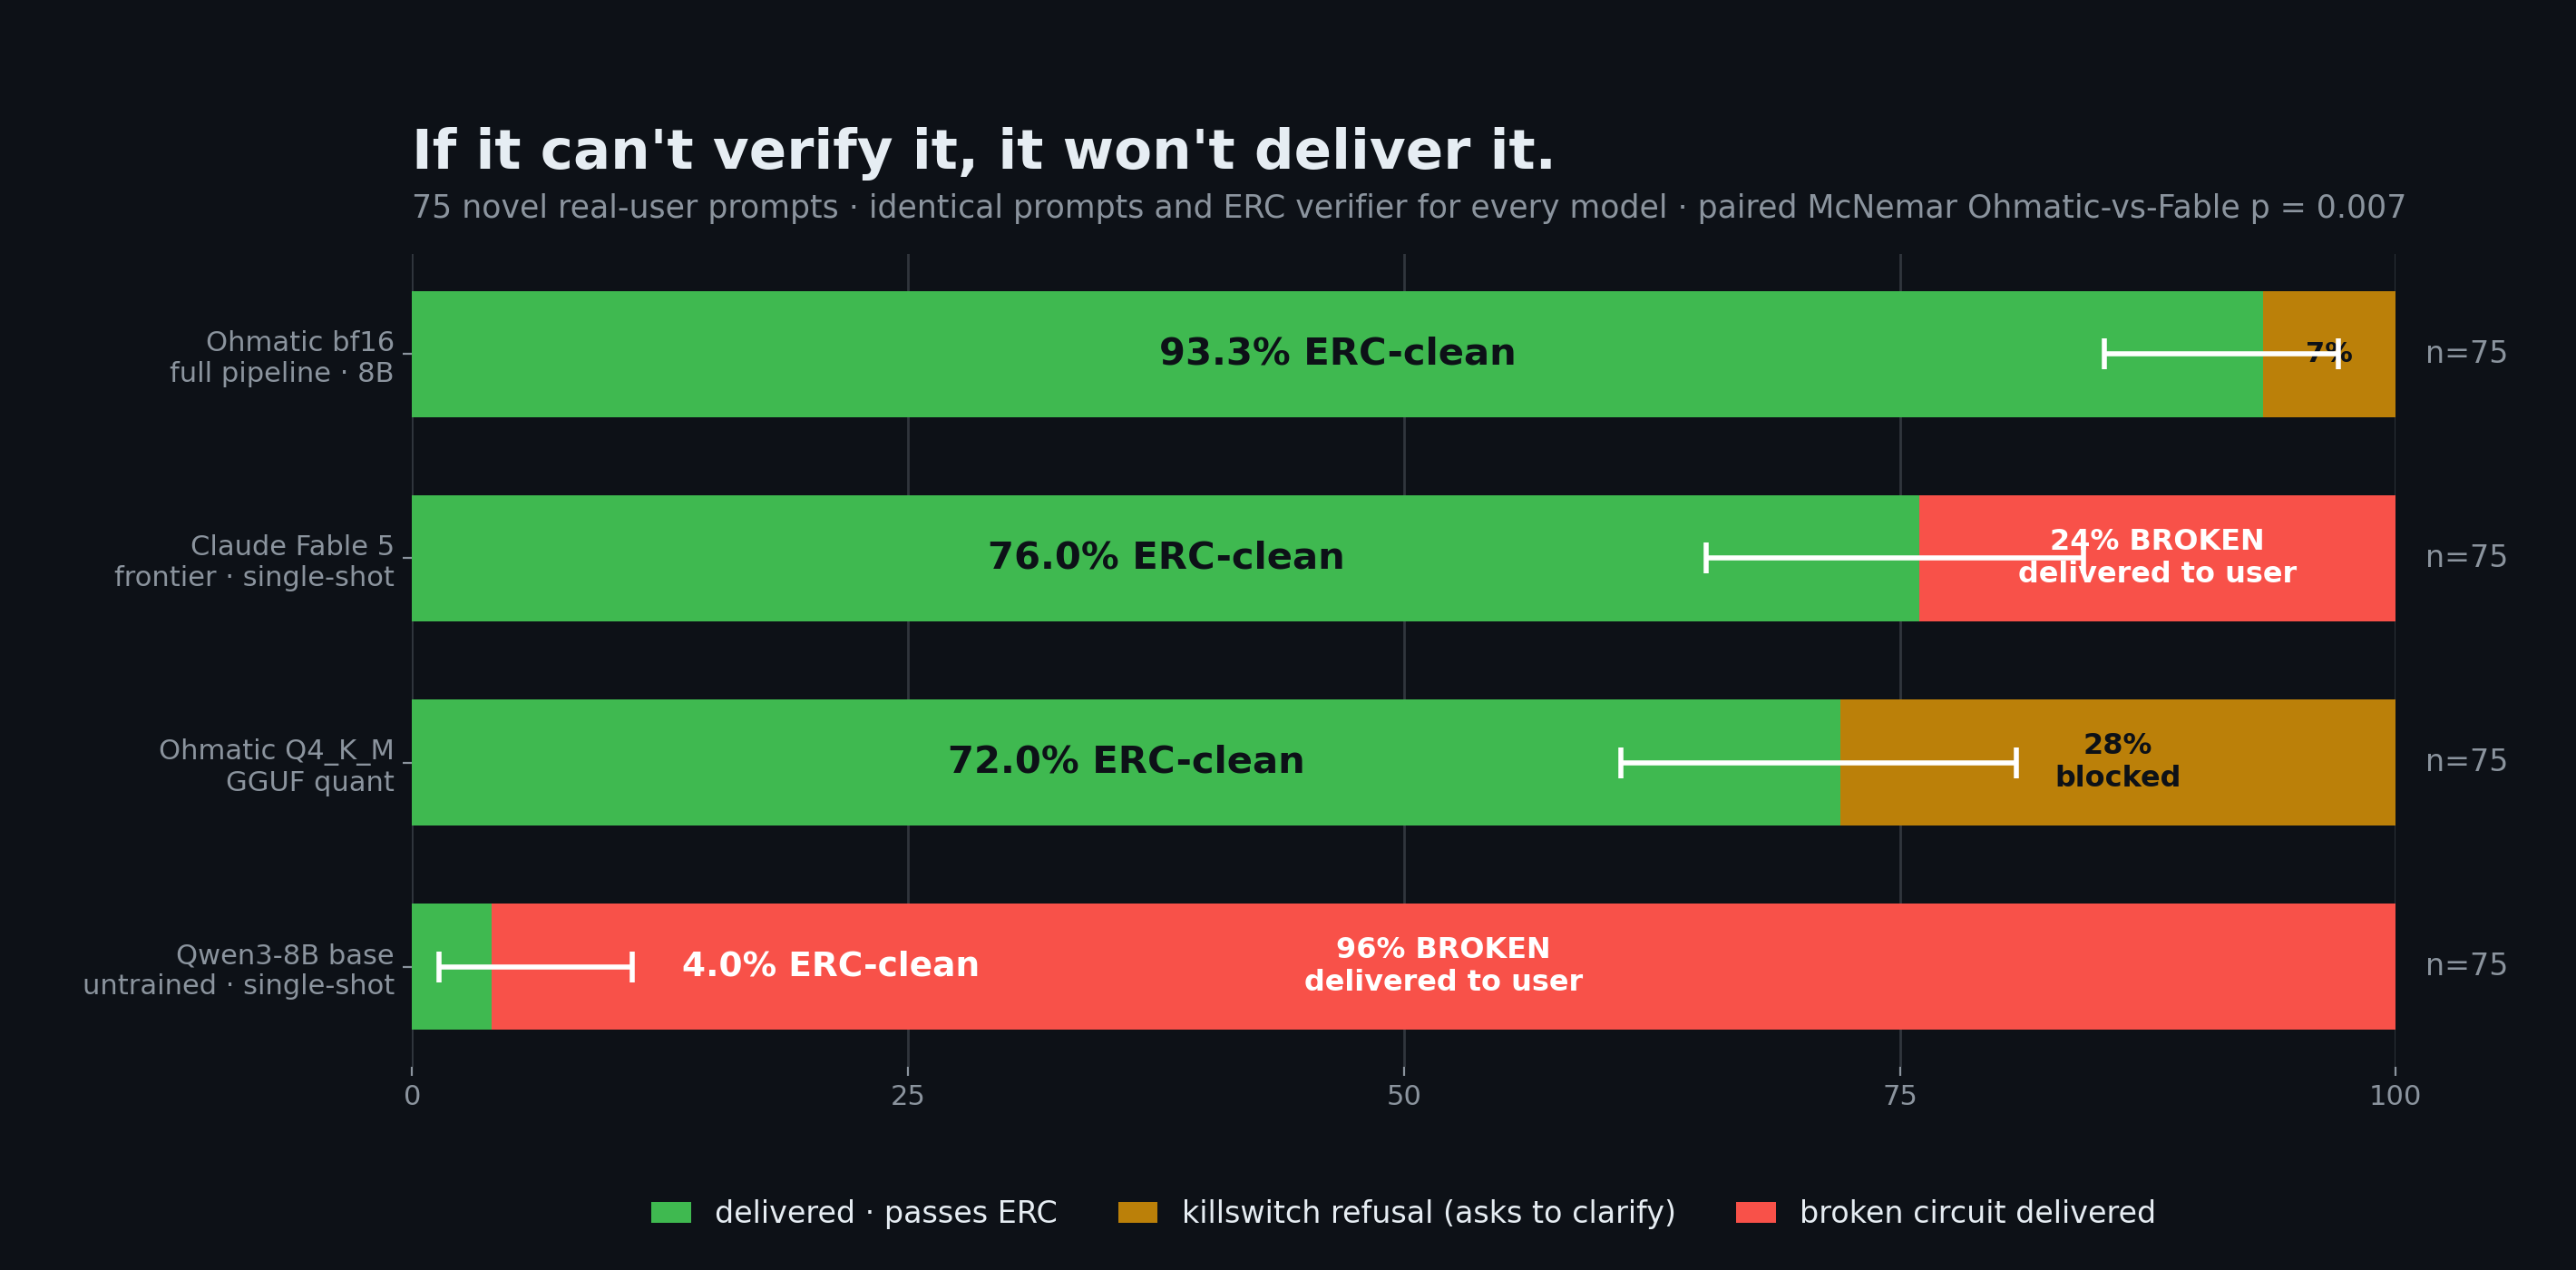
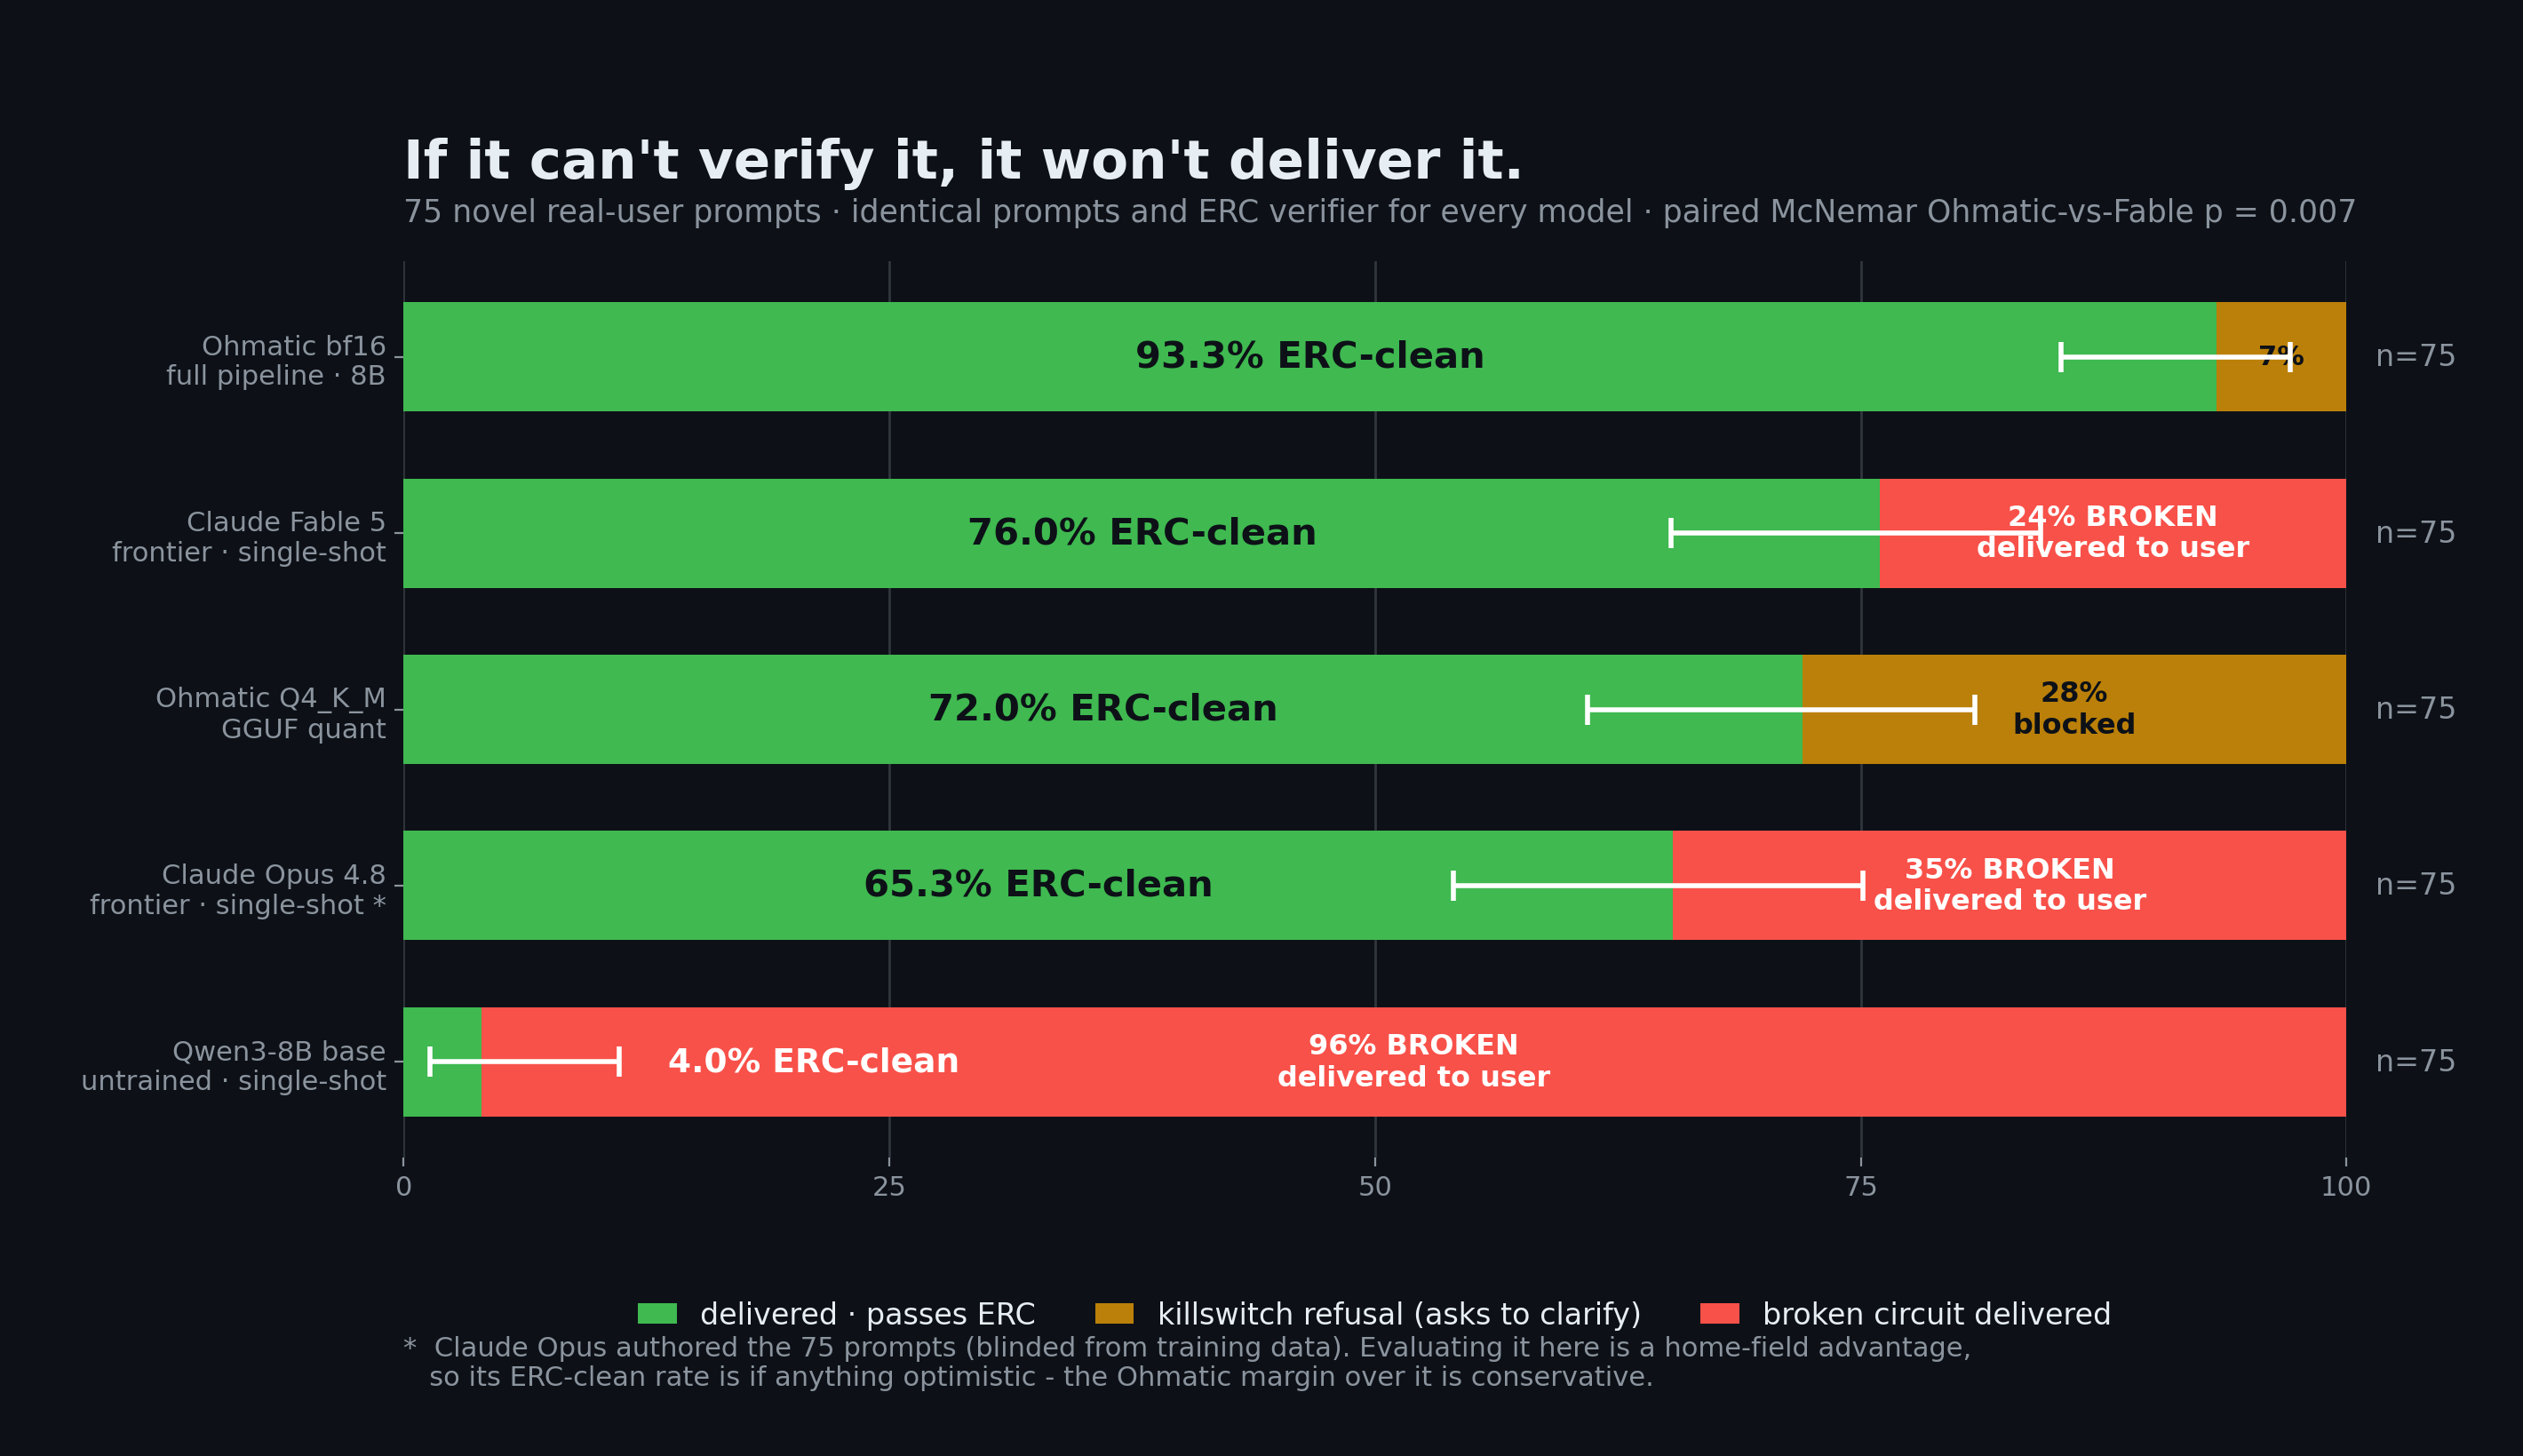
benchmark: publish the Opus leg result (65.3% clean / 35% broken delivered)
Regenerates assets/benchmark.png with the Claude Opus 4.8 leg - 49/75 ERC-clean,
26/75 broken delivered, 0 blocked (it has no killswitch) - and threads the number
through the README and the site. Opus authored the realuser suite, so here it
answers prompts it wrote: disclosed everywhere (chart footnote, README, site) as a
home-field advantage that makes the Ohmatic margin over it conservative, not inflated.

Also generalizes the leftover "hosted frontier" wording to the product-vs-product
framing and adds Claude Opus to the trademark notices on the site.

diff --git a/site/index.html b/site/index.html
@@ -179,18 +179,19 @@
             <div class="stat-row">
               <div class="stat"><div class="n good">93.3%</div><div class="l">delivered clean (Ohmatic bf16)</div></div>
               <div class="stat"><div class="n good">0</div><div class="l">broken circuits delivered</div></div>
-              <div class="stat"><div class="n bad">24%</div><div class="l">broken circuits delivered by Claude Fable 5</div></div>
+              <div class="stat"><div class="n bad">35%</div><div class="l">broken circuits delivered by Claude Opus 4.8</div></div>
             </div>
             <p style="font-size: 0.82rem">
               Wilson 95% intervals; identical prompts and the same verifier for every row. Claude Fable 5
-              received the complete Ohmatic system prompt, every ERC rule included, and was run
-              single-shot; only the correction loopback was withheld. Quality loss
-              shows up as fewer deliveries, not as bad output.
+              and Claude Opus 4.8 each received the complete Ohmatic system prompt, every ERC rule
+              included, and were run single-shot; only the correction loopback was withheld. Fable
+              delivered 24% broken, Opus 35% &mdash; and Opus authored these prompts, so that is its
+              home-field advantage. Quality loss shows up as fewer deliveries, not as bad output.
               <a href="https://github.com/VittoriaLanzo/Ohmatic#benchmark">Full methodology &rarr;</a>
             </p>
           </div>
           <figure>
-            <img class="bench-img" src="assets/benchmark.png" alt="Benchmark chart: Ohmatic bf16 93.3% and Q4_K_M 72.0% verified-clean with zero broken deliveries, versus Claude Fable 5 at 76.0% with 24% broken circuits delivered" loading="lazy" decoding="async" />
+            <img class="bench-img" src="assets/benchmark.png" alt="Benchmark chart: Ohmatic bf16 93.3% and Q4_K_M 72.0% verified-clean with zero broken deliveries, versus Claude Fable 5 at 76.0% (24% broken) and Claude Opus 4.8 at 65.3% (35% broken), with the untrained Qwen3-8B base at 4.0%" loading="lazy" decoding="async" />
             <figcaption>Verified-clean rate vs. broken deliveries, same 75-prompt suite.</figcaption>
           </figure>
         </div>

diff --git a/site/affiliate-disclosure.html b/site/affiliate-disclosure.html
@@ -105,7 +105,7 @@
 
         <h2>Trademarks and comparisons</h2>
         <p>
-          Claude and Claude Fable 5 are trademarks of Anthropic. Any comparison Ohmatic publishes is
+          Claude, Claude Fable 5, and Claude Opus are trademarks of Anthropic. Any comparison Ohmatic publishes is
           nominative, reflects one specific test, and implies no affiliation with or endorsement by
           Anthropic.
         </p>

diff --git a/site/privacy.html b/site/privacy.html
@@ -112,7 +112,7 @@
 
         <h2>8. Trademarks and comparisons</h2>
         <p>
-          Claude and Claude Fable 5 are trademarks of Anthropic. Any comparison Ohmatic publishes is
+          Claude, Claude Fable 5, and Claude Opus are trademarks of Anthropic. Any comparison Ohmatic publishes is
           nominative, reflects one specific test, and implies no affiliation with or endorsement by
           Anthropic.
         </p>

diff --git a/eval/benchmark/cross_model/plot_benchmark.py b/eval/benchmark/cross_model/plot_benchmark.py
@@ -6,7 +6,8 @@ Horizontal stacked bars: green = delivered & passes ERC, gold = killswitch refus
     python -m eval.benchmark.cross_model.plot_benchmark
 
 Numbers are the ERC-clean counts per leg (full 75-prompt realuser suite):
-  bf16  70/75   Fable5 57/75   Q4_K_M 54/75   base 3/75   (Q4 from the T4/llama.cpp leg).
+  bf16 70/75   Fable5 57/75   Q4_K_M 54/75   Opus 49/75   base 3/75   (Q4 from the T4/llama.cpp leg).
+Opus authored the realuser prompts, so its row carries a home-field-advantage footnote.
 """
 from __future__ import annotations
 import math
@@ -22,10 +23,11 @@ FG = "#e6edf3"; MUTED = "#8b949e"; GRID = "#30363d"
 
 # label, clean, total, rest_kind
 MODELS = [
-    ("Ohmatic bf16\nfull pipeline · 8B",      70, 75, "blocked"),
-    ("Claude Fable 5\nfrontier · single-shot", 57, 75, "broken"),
-    ("Ohmatic Q4_K_M\nGGUF quant",                 54, 75, "blocked"),
-    ("Qwen3-8B base\nuntrained · single-shot",  3, 75, "broken"),
+    ("Ohmatic bf16\nfull pipeline · 8B",          70, 75, "blocked"),
+    ("Claude Fable 5\nfrontier · single-shot",    57, 75, "broken"),
+    ("Ohmatic Q4_K_M\nGGUF quant",                54, 75, "blocked"),
+    ("Claude Opus 4.8\nfrontier · single-shot *",  49, 75, "broken"),
+    ("Qwen3-8B base\nuntrained · single-shot",     3, 75, "broken"),
 ]
 
 
@@ -37,7 +39,7 @@ def wilson(k: int, n: int, z: float = 1.96) -> tuple[float, float]:
     return (c - h) * 100, (c + h) * 100
 
 
-fig, ax = plt.subplots(figsize=(14.2, 7.0), dpi=200)
+fig, ax = plt.subplots(figsize=(14.2, 8.2), dpi=200)
 fig.patch.set_facecolor(BG); ax.set_facecolor(BG)
 ys = list(range(len(MODELS)))[::-1]   # first model on top
 
@@ -85,7 +87,12 @@ legend = [Patch(facecolor=GREEN, label="delivered · passes ERC"),
 ax.legend(handles=legend, loc="upper center", bbox_to_anchor=(0.5, -0.13), ncol=3,
           frameon=False, labelcolor=FG, fontsize=12, handlelength=1.3)
 
+fig.text(0.16, 0.045,
+         "*  Claude Opus authored the 75 prompts (blinded from training data). Evaluating it here is a "
+         "home-field advantage,\n   so its ERC-clean rate is if anything optimistic - the Ohmatic margin over it is conservative.",
+         color=MUTED, fontsize=11, ha="left", va="bottom")
+
 out = Path(__file__).resolve().parents[3] / "assets" / "benchmark.png"
-fig.subplots_adjust(left=0.16, right=0.93, top=0.80, bottom=0.16)
+fig.subplots_adjust(left=0.16, right=0.93, top=0.82, bottom=0.205)
 fig.savefig(out, facecolor=BG, dpi=200)
 print("wrote", out)

diff --git a/README.md b/README.md
@@ -45,12 +45,12 @@ model can't get there, it returns a clarifying question and keeps the broken dra
 evaluation and overlap-checked against all training data, run end to end through the full pipeline.
 
 <p align="center">
-  <img src="assets/benchmark.png" alt="Benchmark across 75 identical prompts judged by the same ERC engine: Ohmatic bf16 93.3% ERC-clean with zero ERC-failing deliveries (the rest withheld by the killswitch); Ohmatic Q4_K_M quant 72.0% ERC-clean, zero ERC-failing; Claude Fable 5 (full system prompt, single-shot) 76.0% ERC-clean with 18 of 75 outputs failing the same checks; the untrained Qwen3-8B base 4.0% ERC-clean" width="100%" />
+  <img src="assets/benchmark.png" alt="Benchmark across 75 identical prompts judged by the same ERC engine: Ohmatic bf16 93.3% ERC-clean with zero ERC-failing deliveries (the rest withheld by the killswitch); Ohmatic Q4_K_M quant 72.0% ERC-clean, zero ERC-failing; Claude Fable 5 (full system prompt, single-shot) 76.0% ERC-clean with 18 of 75 outputs failing the same checks; Claude Opus 4.8 (full system prompt, single-shot) 65.3% ERC-clean with 26 of 75 failing, despite Opus having authored the prompts; the untrained Qwen3-8B base 4.0% ERC-clean" width="100%" />
 </p>
 
 Every model is judged by the same ERC engine. "ERC-clean" means a delivered circuit passed that
 engine: structurally and electrically consistent against a fixed rule set. Ohmatic delivered 70 of
-the 75 and withheld the other 5; every delivery passed. On the same prompts, single-shot, 18 of 75 Claude Fable 5 outputs failed the same checks.
+the 75 and withheld the other 5; every delivery passed. On the same prompts, single-shot, 18 of 75 Claude Fable 5 outputs failed the same checks, and 26 of 75 Claude Opus 4.8 outputs failed it — even though Opus authored the prompts.
 
 <details>
 <summary><b>Methodology and reproduce</b></summary>
@@ -60,8 +60,8 @@ intervals (bf16 ERC-clean 93.3%, 95% CI 85.3-97.1%; the full set is in the repor
 "Failed ERC" means an output did not pass that engine. Because that engine also trains and gates
 Ohmatic, the ERC-clean rate measures conformance to a shared rule set; independent correctness is a
 separate question, addressed in [A note on verification](#a-note-on-verification). The comparison is
-fair because the rule set is held identical for every model, and Claude Fable 5 received the same
-complete system prompt, with the schema, component registry, and every ERC rule included.
+fair because the rule set is held identical for every model, and the Claude legs (Fable 5, Opus 4.8)
+received the same complete system prompt, with the schema, component registry, and every ERC rule included.
 
 On clean-rate, paired McNemar on the same 75 prompts: Ohmatic-only-clean 17 vs Claude
 Fable 5-only-clean 4, exact p = 0.007. Of the 75, Ohmatic delivered 70 (93.3% of all prompts; 100%
@@ -75,6 +75,13 @@ prompt (no repo or conversation access, default decoding). The only thing withhe
 correction loopback: the iterative repair loop is the product, and a chat user does not have it. Quantization degrades the generator: the Q4_K_M build still delivers 0
 ERC-failing circuits, but its killswitch fires about four times as often (28.0% withheld vs 6.7%),
 so the quality loss showed up as extra refusals while every delivery stayed ERC-clean.
+
+Claude Opus 4.8, run the identical way (full system prompt, single-shot, fresh instance per prompt),
+reaches 65.3% ERC-clean (49/75, 95% CI 54.1-75.1%) and delivers 26 broken circuits with no
+killswitch to catch them. Opus authored the realuser suite, so here it answers prompts it wrote — a
+home-field advantage that biases in its favour, which makes the Ohmatic margin over it conservative,
+not inflated. (`MISSING_POWER_VCC` was its most common failure: a circuit that reads fine but never
+ties the part to power.)
 
 ```bash
 # stage 1: generate (per model leg; append-only, crash-resumable)

diff --git a/eval/benchmark/cross_model/README.md b/eval/benchmark/cross_model/README.md
@@ -1,8 +1,9 @@
 # Cross-model benchmark: full reproducibility
 
-Compares hosted frontier models against the end-to-end Ohmatic product
-(T5 normalizer → Qwen → ERC → self-correction → **killswitch**) on circuit
-generation, verified by the same ERC engine the product ships.
+Compares frontier chat models - run product-vs-product through their own CLIs, no
+api key - against the end-to-end Ohmatic product (T5 normalizer → Qwen → ERC →
+self-correction → **killswitch**) on circuit generation, verified by the same ERC
+engine the product ships.
 
 ## The three stages
 
@@ -85,5 +86,5 @@ control that isolates the lift as training, not the 8B base.
    contamination-free cross-check.
 5. **Outcome taxonomy**: `delivered_clean` / `delivered_broken` /
    `blocked_killswitch` (Ohmatic refusal, no unverified circuit reaches the
-   user) / `invalid_output`. Hosted legs have no killswitch: every ERC failure
+   user) / `invalid_output`. The off-box legs have no killswitch: every ERC failure
    is a broken circuit delivered to the user.